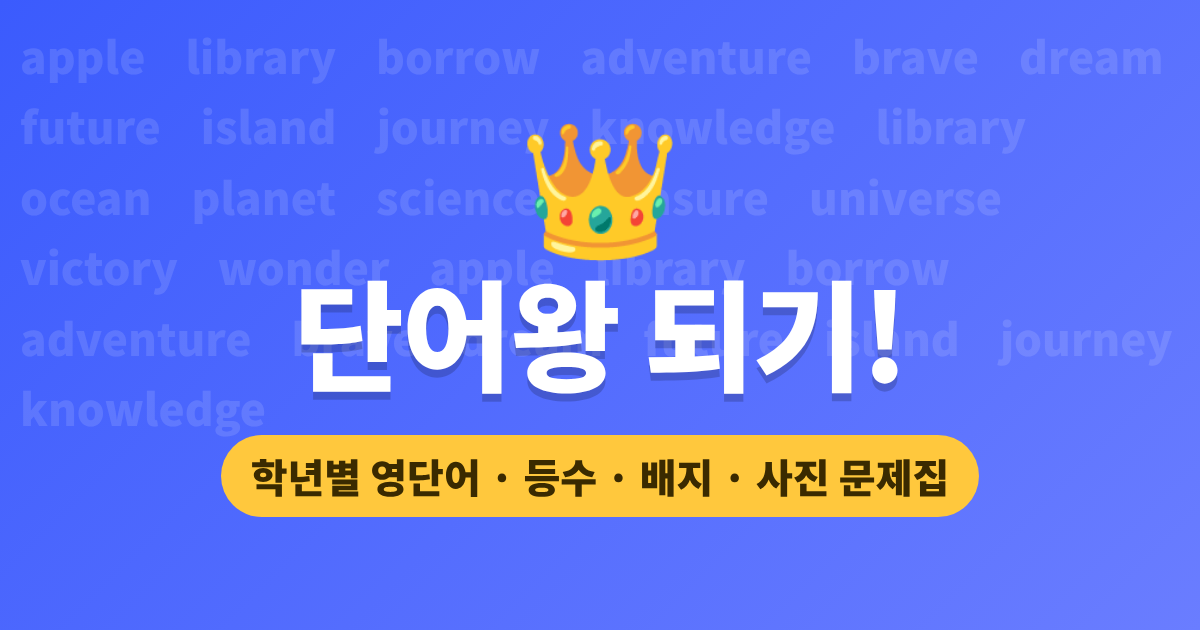
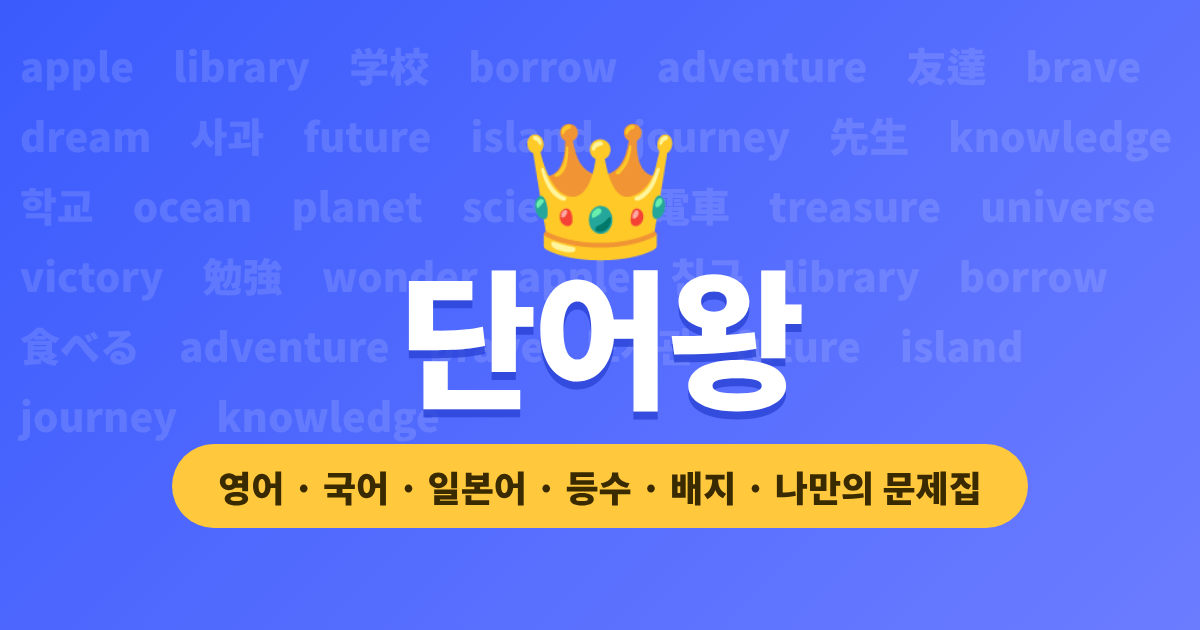
단어왕: 공유 미리보기 그림·문구를 새 이름으로 변경
Claude-Session: https://claude.ai/code/session_0135vb74voEoCHQ8XvfQHauV

Changed region(s): [[0.1233, 0.4222, 0.8633, 0.8444]]

diff --git a/word/index.html b/word/index.html
@@ -7,9 +7,9 @@
 <title>단어왕 · 틈틈이 영단어 퀴즈</title>
 <meta name="description" content="초등부터 수능·생활 영어까지 학년별 영어 단어 퀴즈. 등수·배지·레벨로 매일 조금씩, 단어왕에 도전하세요. 사진으로 나만의 문제집도 만들 수 있어요.">
 <meta property="og:type" content="website">
-<meta property="og:title" content="단어왕 👑 틈틈이 영단어 퀴즈">
-<meta property="og:description" content="학년별 영어 단어 퀴즈 · 등수 · 배지 · 사진으로 나만의 문제집">
-<meta property="og:image" content="https://wordking.memejalal2026.workers.dev/og.png">
+<meta property="og:title" content="단어왕 👑 틈틈이 풀고 등수 올리는 단어 퀴즈">
+<meta property="og:description" content="영어 · 국어 · 일본어 단어 퀴즈 · 등수 · 배지 · 사진으로 나만의 문제집">
+<meta property="og:image" content="https://wordking.memejalal2026.workers.dev/og.png?v=2">
 <meta name="twitter:card" content="summary_large_image">
 <meta name="theme-color" content="#3b5bfd">
 <link rel="manifest" href="manifest.webmanifest"><meta name="mobile-web-app-capable" content="yes"><meta name="apple-mobile-web-app-capable" content="yes"><meta name="apple-mobile-web-app-title" content="단어왕"><meta name="apple-mobile-web-app-status-bar-style" content="default">
